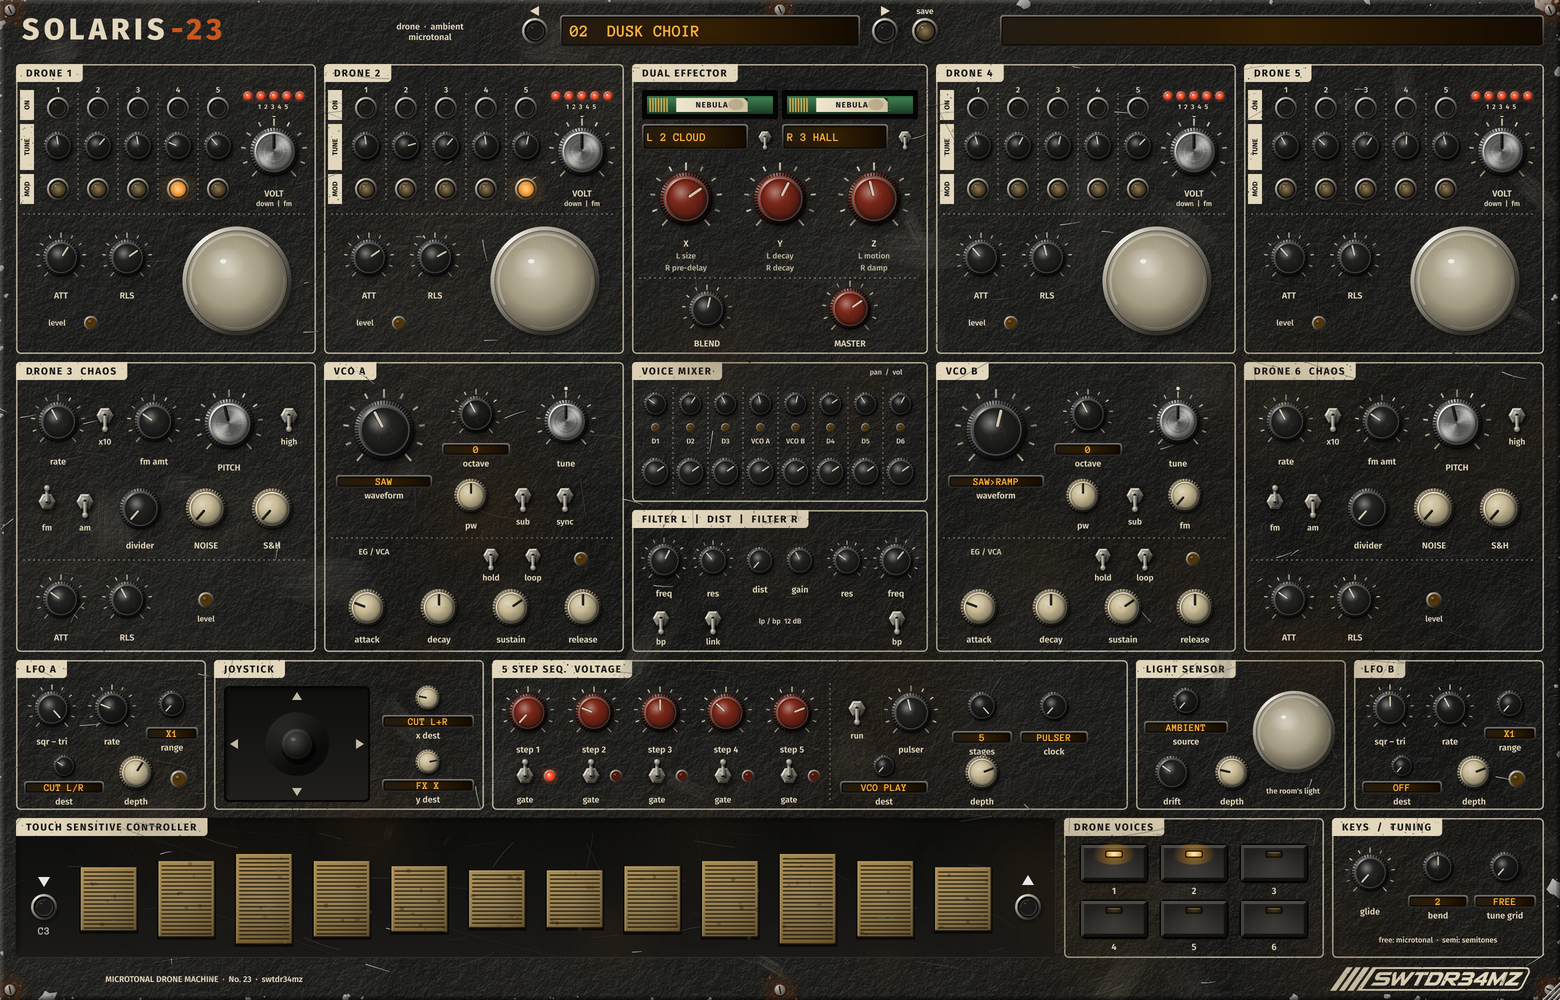
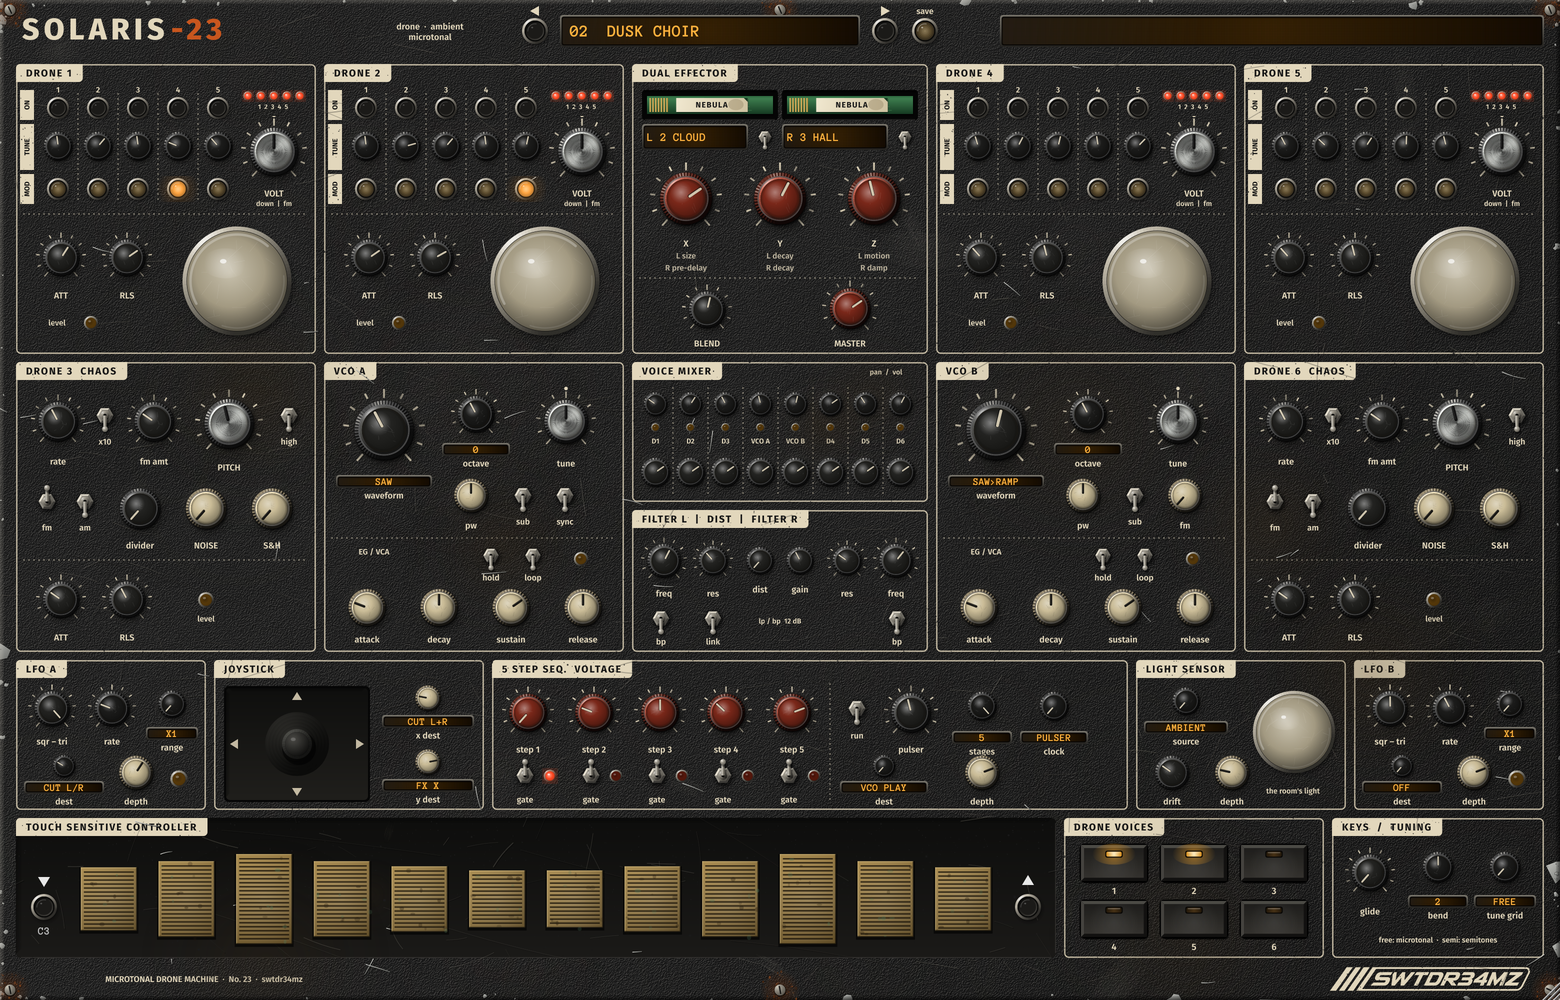
Panel finish: a fine stippled black powder coat instead of the rough relief
An even field of tiny lit bumps (about a panel unit each) at the screen's pixel density; the large
blotches and scuffs much fainter, so the panel reads as textured black metal, not stone.

Claude-Session: https://claude.ai/code/session_019gwqiMgxewffqNDRvxsEgQ

diff --git a/src/ui/Look.cpp b/src/ui/Look.cpp
@@ -30,7 +30,7 @@ const float LANG = std::atan2(LY, LX);   /* its direction on the panel */
 const char *finishName(int) { return "RELIC"; }
 void setFinish(int f) { currentFinish = jlimit(0, NFINISH - 1, f); }
 int finish() { return currentFinish.load(); }
-Colour panelColour() { return Colour(0xff1a1a19); }
+Colour panelColour() { return Colour(0xff1b1b1b); }
 Colour ink() { return BONE; }
 Colour lcdText() { return Colour(0xffffb23e); }
 
@@ -74,54 +74,46 @@ void Look::drawPopupMenuBackground(Graphics &g, int w, int h)
 }
 
 /* ---------------------------------------------------------------------------------- the coat --- */
-/* The powder coat's relief: a height field of four octaves of tileable value noise (bumps of 16, 5.5, 2.2 and 0.9
- * panel units, the orange peel of a rough coat), each pixel's normal lit by the light, and the pigment's own grain.
- * Made at the pixel density it will be shown at (so on an 8K screen every bump is still drawn with real pixels, not a
- * magnified bitmap), kept per density. */
+/* The panel's finish: a black textured (stippled) powder coat on steel, as on the better synthesizers of today: a
+ * dense, even field of tiny round bumps, each about a panel unit across, every one lit from the upper left (a
+ * bright crown, a dark foot), and the pigment's own fine grain between them. No hills, no valleys: at arm's length a
+ * soft matte black, close up a fine, regular pebbling. Made at the pixel density it is shown at (so on an 8K screen
+ * every bump is still drawn with real pixels), kept per density, tiling seamlessly. */
 static Image makeCoat(float sc)
 {
     const int T = 512;
     std::vector<float> h((size_t)(T * T), 0.0f);
     Random rnd(7719);
-    struct Oct {
-        float period, amp;
-    } const oct[] = {{16.0f, 0.45f}, {5.5f, 0.4f}, {2.2f, 0.32f}, {0.9f, 0.26f}};
-    for (auto &o : oct) {
-        int n = jmax(2, (int)std::lround((float)T / (o.period * sc)));
-        std::vector<float> grid((size_t)(n * n));
-        for (auto &v : grid)
-            v = rnd.nextFloat() * 2.0f - 1.0f;
-        const float cell = (float)T / (float)n;
-        for (int y = 0; y < T; y++) {
-            float gy = (float)y / cell;
-            int y0 = (int)gy;
-            float fy = gy - (float)y0;
-            fy = fy * fy * (3.0f - 2.0f * fy);
-            int ya = y0 % n, yb = (y0 + 1) % n;
-            for (int x = 0; x < T; x++) {
-                float gx = (float)x / cell;
-                int x0 = (int)gx;
-                float fx = gx - (float)x0;
-                fx = fx * fx * (3.0f - 2.0f * fx);
-                int xa = x0 % n, xb = (x0 + 1) % n;
-                float a = grid[(size_t)(ya * n + xa)], b = grid[(size_t)(ya * n + xb)];
-                float c = grid[(size_t)(yb * n + xa)], d = grid[(size_t)(yb * n + xb)];
-                h[(size_t)(y * T + x)] += o.amp * (a + (b - a) * fx + (c - a + (a - b - c + d) * fx) * fy);
-            }
+    /* the bumps: jittered on a grid (even, never clumped), a little varied in size and height */
+    const float spacing = jmax(1.6f, 1.05f * sc);
+    const int n = (int)((float)T / spacing);
+    const float cell = (float)T / (float)n;
+    for (int gy = 0; gy < n; gy++)
+        for (int gx = 0; gx < n; gx++) {
+            float cx = ((float)gx + 0.2f + 0.6f * rnd.nextFloat()) * cell, cy = ((float)gy + 0.2f + 0.6f * rnd.nextFloat()) * cell;
+            float rad = cell * (0.42f + 0.18f * rnd.nextFloat()), amp = 0.7f + 0.5f * rnd.nextFloat();
+            int x0 = (int)std::floor(cx - rad * 1.8f), x1 = (int)std::ceil(cx + rad * 1.8f);
+            int y0 = (int)std::floor(cy - rad * 1.8f), y1 = (int)std::ceil(cy + rad * 1.8f);
+            for (int y = y0; y <= y1; y++)
+                for (int x = x0; x <= x1; x++) {
+                    float dx = ((float)x - cx) / rad, dy = ((float)y - cy) / rad;
+                    float e = dx * dx + dy * dy;
+                    if (e < 3.2f)
+                        h[(size_t)(((y % T + T) % T) * T + ((x % T + T) % T))] += amp * std::exp(-e);
+                }
         }
-    }
     Image im(Image::ARGB, T, T, true);
     Image::BitmapData bd(im, Image::BitmapData::writeOnly);
-    const float k = 0.30f * sc;          /* (the slope in panel units, whatever the density) */
+    const float k = 0.9f;                /* (a bump's slope: its size is in pixels already) */
     const float ln = std::sqrt(LX * LX + LY * LY + LZ * LZ), lx = LX / ln, ly = LY / ln, lz = LZ / ln;
     for (int y = 0; y < T; y++)
         for (int x = 0; x < T; x++) {
             float dx = h[(size_t)(y * T + (x + 1) % T)] - h[(size_t)(y * T + (x + T - 1) % T)];
             float dy = h[(size_t)(((y + 1) % T) * T + x)] - h[(size_t)(((y + T - 1) % T) * T + x)];
-            float nx = -dx * k, ny = -dy * k, nz = 1.0f, nl = std::sqrt(nx * nx + ny * ny + 1.0f);
-            float shade = (nx * lx + ny * ly + nz * lz) / nl - lz;   /* (flat: 0) */
-            float v = shade * 1.15f + (rnd.nextFloat() - 0.5f) * 0.07f;
-            Colour c = v > 0.0f ? Colour(0xffd9d2c2).withAlpha(jmin(0.13f, v * 0.55f)) : Colours::black.withAlpha(jmin(0.38f, -v * 1.1f));
+            float nx = -dx * k, ny = -dy * k, nl = std::sqrt(nx * nx + ny * ny + 1.0f);
+            float shade = (nx * lx + ny * ly + lz) / nl - lz;
+            float v = shade + (rnd.nextFloat() - 0.5f) * 0.05f;
+            Colour c = v > 0.0f ? Colour(0xffe4e0d6).withAlpha(jmin(0.16f, v * 0.42f)) : Colours::black.withAlpha(jmin(0.5f, -v * 0.85f));
             bd.setPixelColour(x, y, c);
         }
     return im;
@@ -145,12 +137,12 @@ void drawPanel(Graphics &g, Rectangle<float> r)
     g.fillRect(r);
     /* the coat thinner or thicker, a little brown, a little green: large, soft */
     Random rnd(1923);
-    for (int i = 0; i < (int)(r.getWidth() * r.getHeight() / 7000.0f); i++) {
+    for (int i = 0; i < (int)(r.getWidth() * r.getHeight() / 26000.0f); i++) {
         float x = r.getX() + rnd.nextFloat() * r.getWidth(), y = r.getY() + rnd.nextFloat() * r.getHeight();
         float s = 30.0f + rnd.nextFloat() * 160.0f;
         Colour c = rnd.nextFloat() < 0.45f ? Colour(0xff2e2a22) : rnd.nextFloat() < 0.5f ? Colour(0xff0b0b0a) : Colour(0xff222520);
-        ColourGradient cg(c.withAlpha(0.20f), x, y, c.withAlpha(0.0f), x + s, y, true);
-        cg.addColour(0.5, c.withAlpha(0.09f));
+        ColourGradient cg(c.withAlpha(0.07f), x, y, c.withAlpha(0.0f), x + s, y, true);
+        cg.addColour(0.5, c.withAlpha(0.03f));
         g.setGradientFill(cg);
         g.fillEllipse(x - s, y - s, s * 2.0f, s * 2.0f);
     }
@@ -182,13 +174,13 @@ void drawWear(Graphics &g, Rectangle<float> r, float px)
     Random rnd(4242);
     auto P = [&](float mx, float my) { return Point<float>(r.getX() + mx * r.getWidth(), r.getY() + my * r.getHeight()); };
     /* scuffs: the black rubbed thin, the grey primer coming through, in streaks along the rubbing */
-    for (int i = 0; i < 46; i++) {
+    for (int i = 0; i < 18; i++) {
         auto c = P(rnd.nextFloat(), rnd.nextFloat());
         float w = 20.0f + rnd.nextFloat() * 110.0f, h = w * (0.2f + rnd.nextFloat() * 0.4f);
         float ang = rnd.nextFloat() * 3.14f;
         Graphics::ScopedSaveState s(g);
         g.addTransform(AffineTransform::rotation(ang, c.x, c.y));
-        float a = 0.08f + 0.14f * rnd.nextFloat();
+        float a = 0.04f + 0.07f * rnd.nextFloat();
         ColourGradient cg(Colour(0xff6d6a62).withAlpha(a), c.x, c.y, Colour(0xff6d6a62).withAlpha(0.0f), c.x + w * 0.5f, c.y, true);
         g.setGradientFill(cg);
         g.fillEllipse(c.x - w * 0.5f, c.y - h * 0.5f, w, h);
@@ -199,7 +191,7 @@ void drawWear(Graphics &g, Rectangle<float> r, float px)
         }
     }
     /* grime: brown, collected low and in the corners */
-    for (int i = 0; i < 26; i++) {
+    for (int i = 0; i < 10; i++) {
         auto c = P(rnd.nextFloat(), 0.35f + 0.65f * rnd.nextFloat());
         float s = 30.0f + rnd.nextFloat() * 120.0f;
         ColourGradient cg(Colour(0xff3a2a16).withAlpha(0.16f + 0.14f * rnd.nextFloat()), c.x, c.y, Colour(0xff3a2a16).withAlpha(0.0f), c.x + s, c.y, true);
